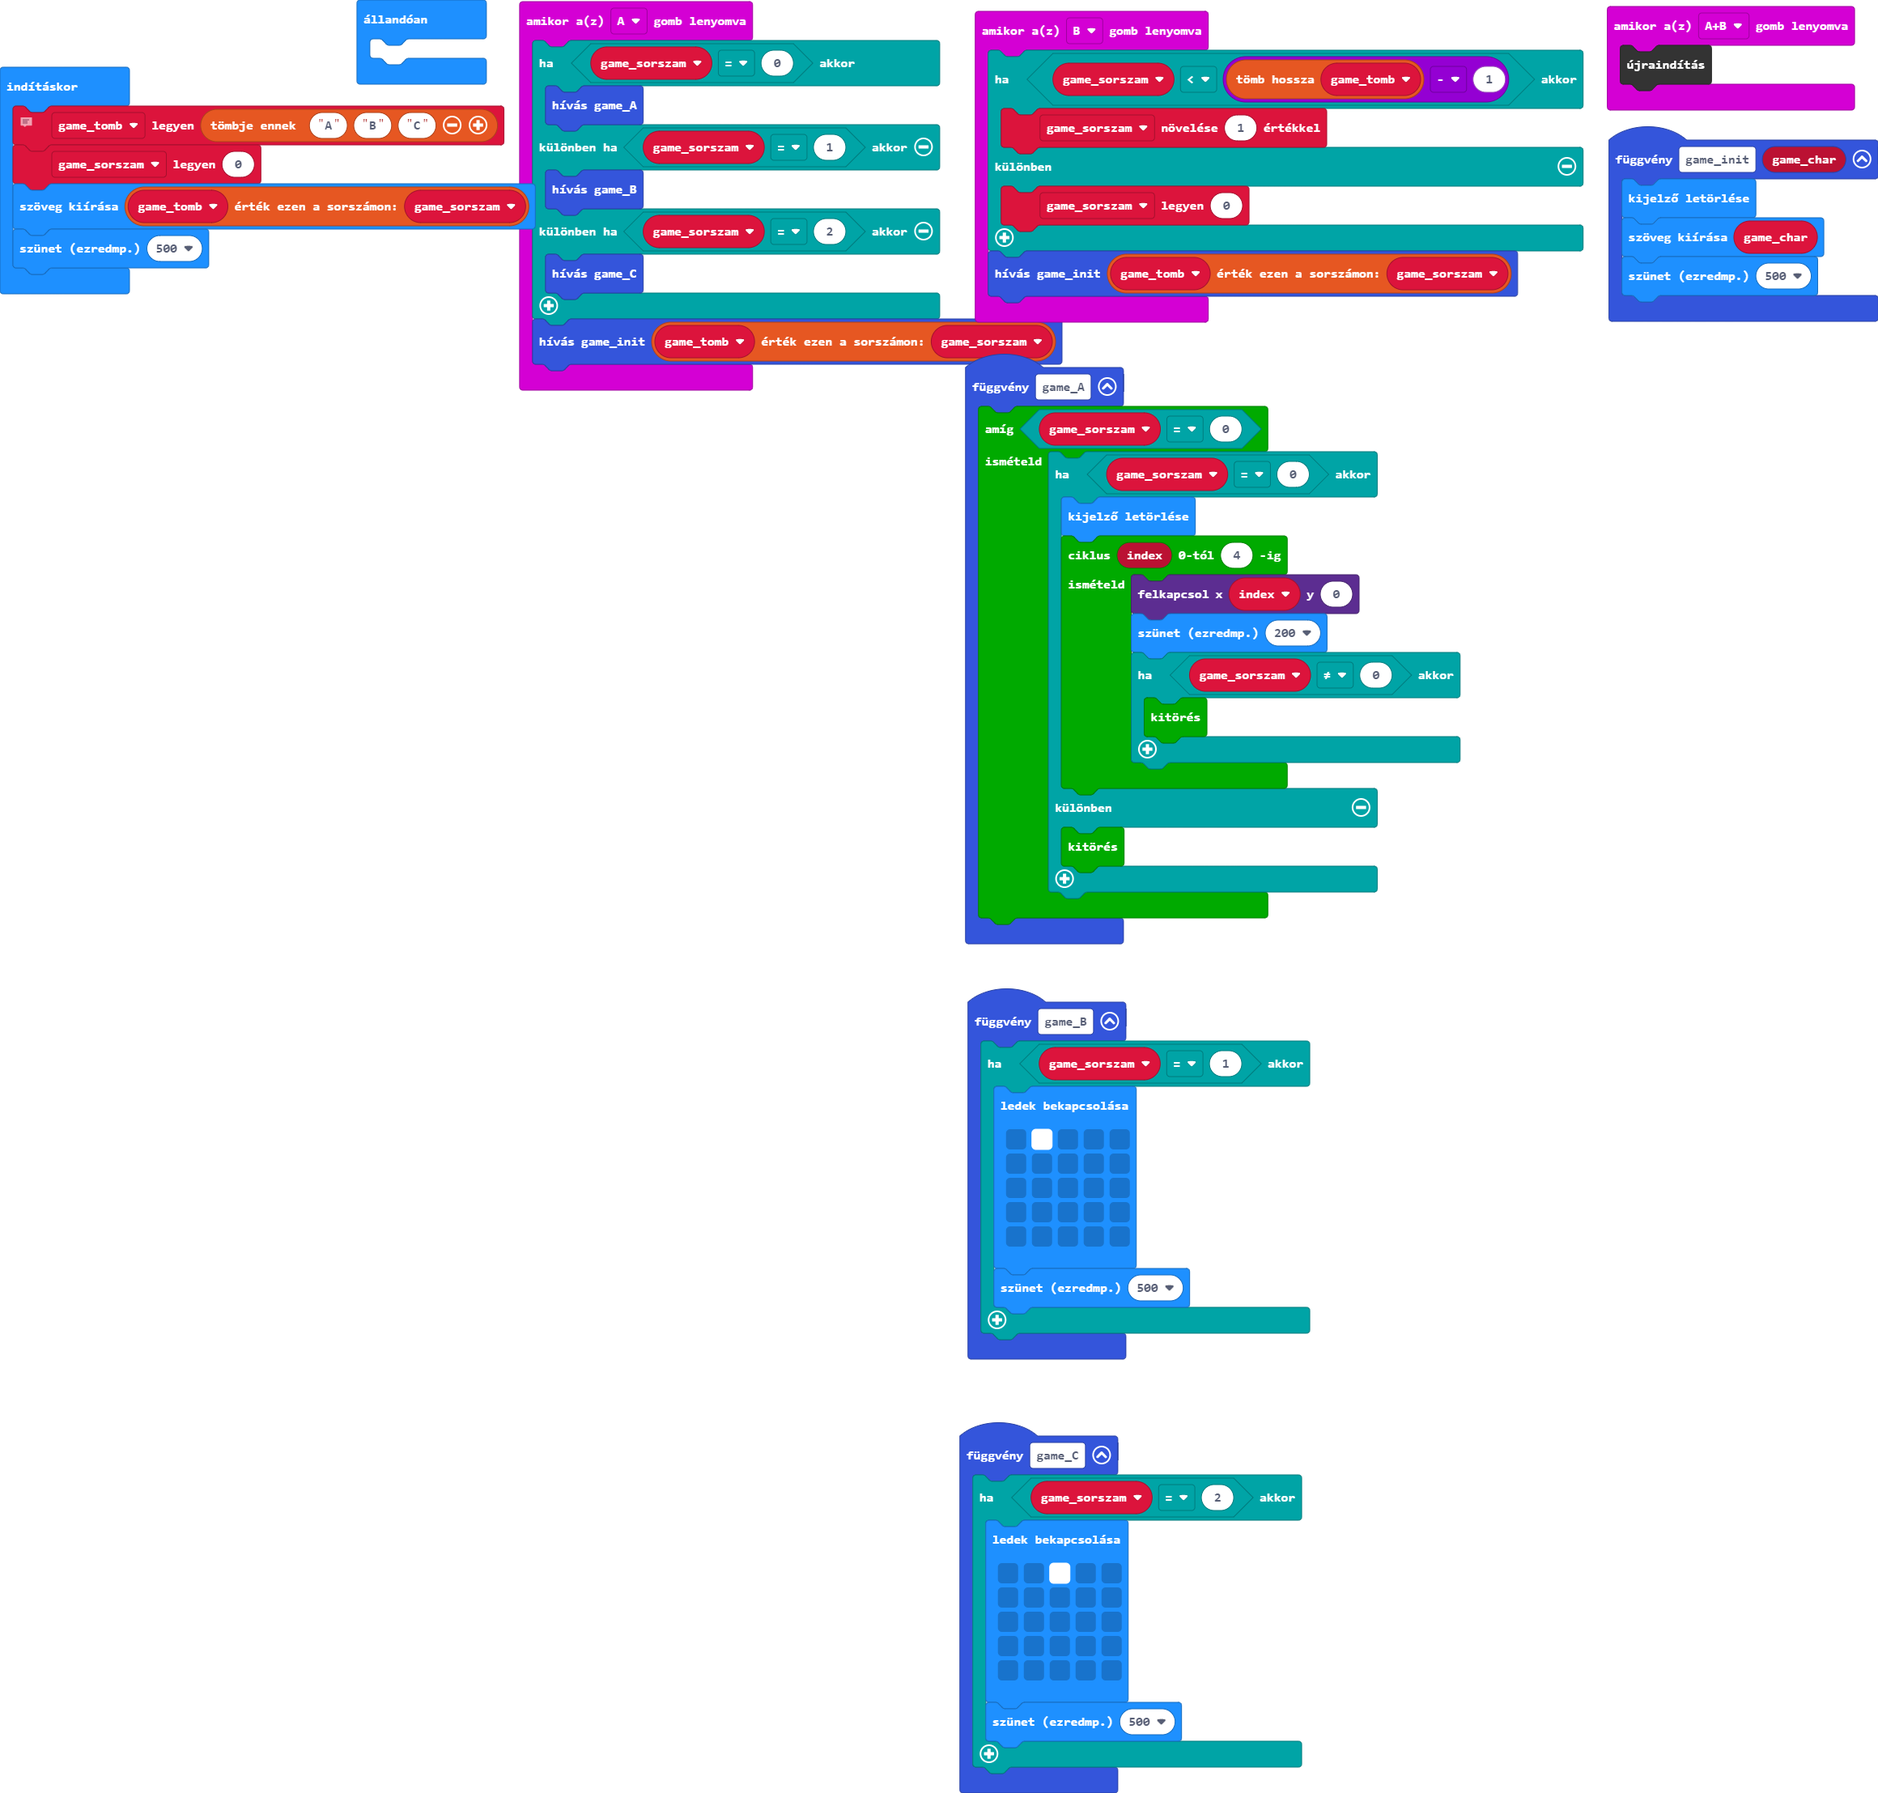
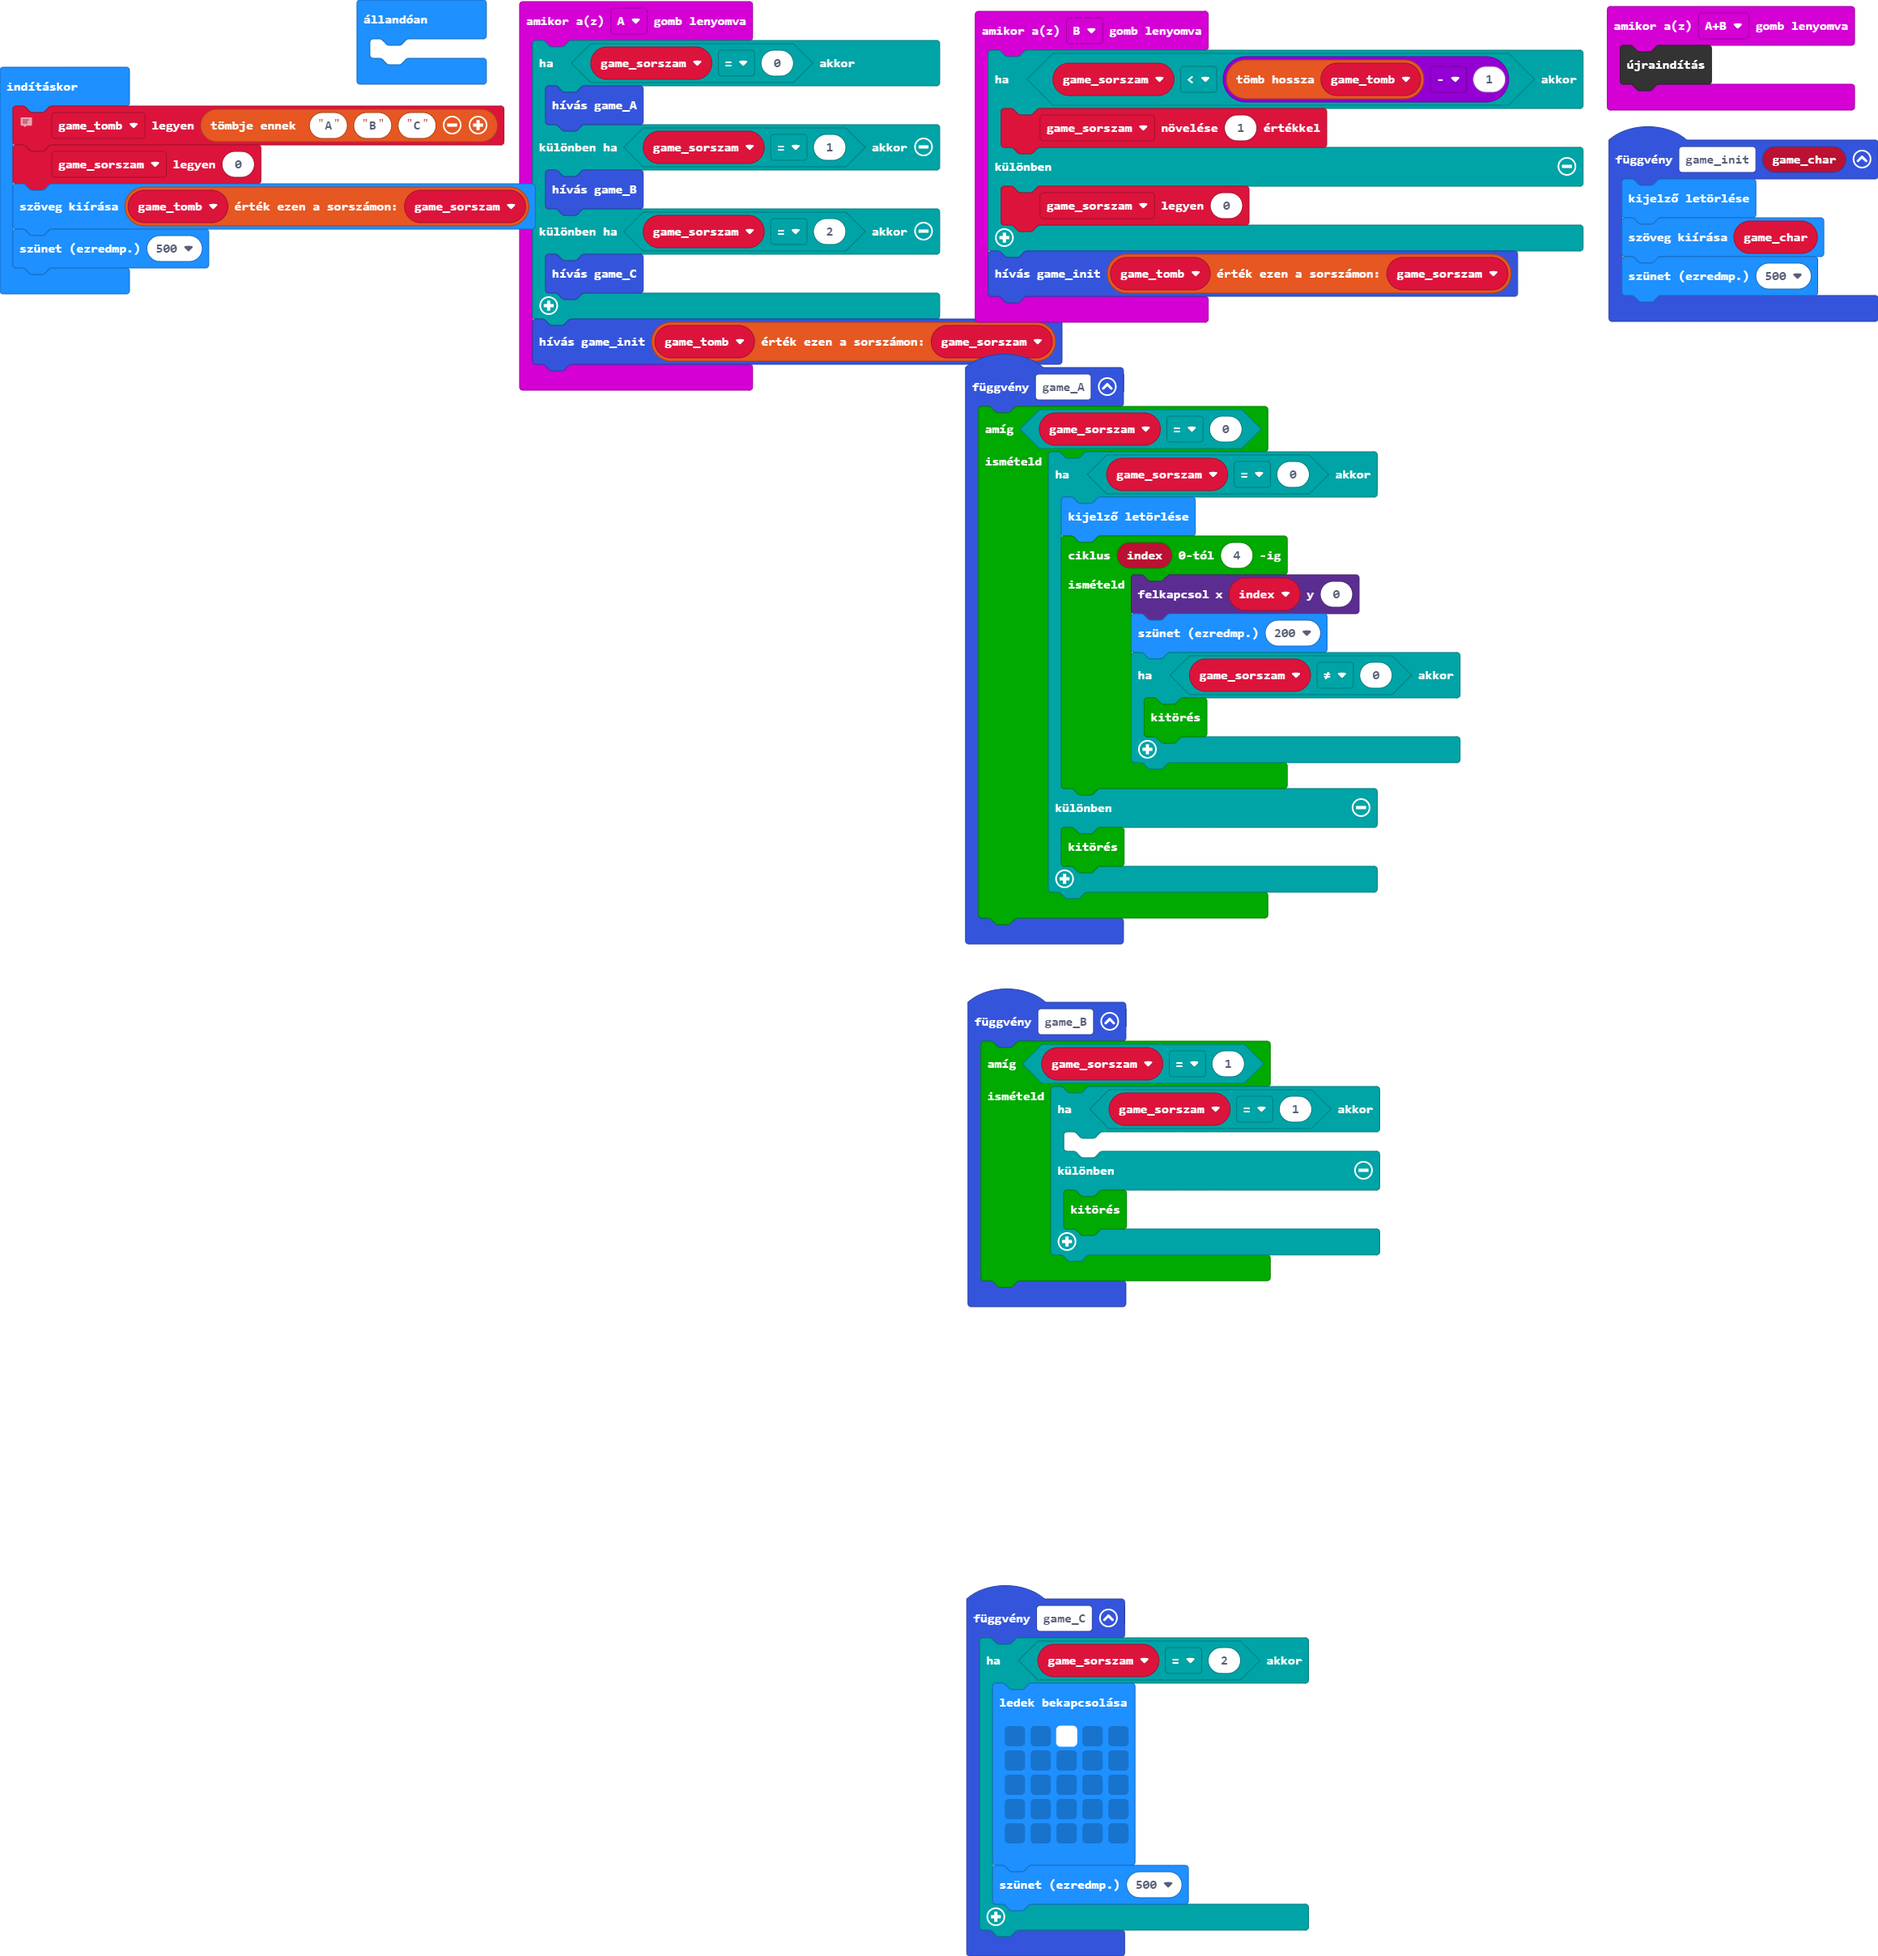
Update main.blocks, main.ts

Changed region(s): [[0.0, 0.0, 1.0, 1.0]]

diff --git a/main.ts b/main.ts
@@ -53,15 +53,12 @@ input.onButtonPressed(Button.B, function () {
     game_init(game_tomb[game_sorszam])
 })
 function game_B () {
-    if (game_sorszam == 1) {
-        basic.showLeds(`
-            . # . . .
-            . . . . .
-            . . . . .
-            . . . . .
-            . . . . .
-            `)
-        basic.pause(500)
+    while (game_sorszam == 1) {
+        if (game_sorszam == 1) {
+        	
+        } else {
+            break;
+        }
     }
 }
 let game_sorszam = 0
